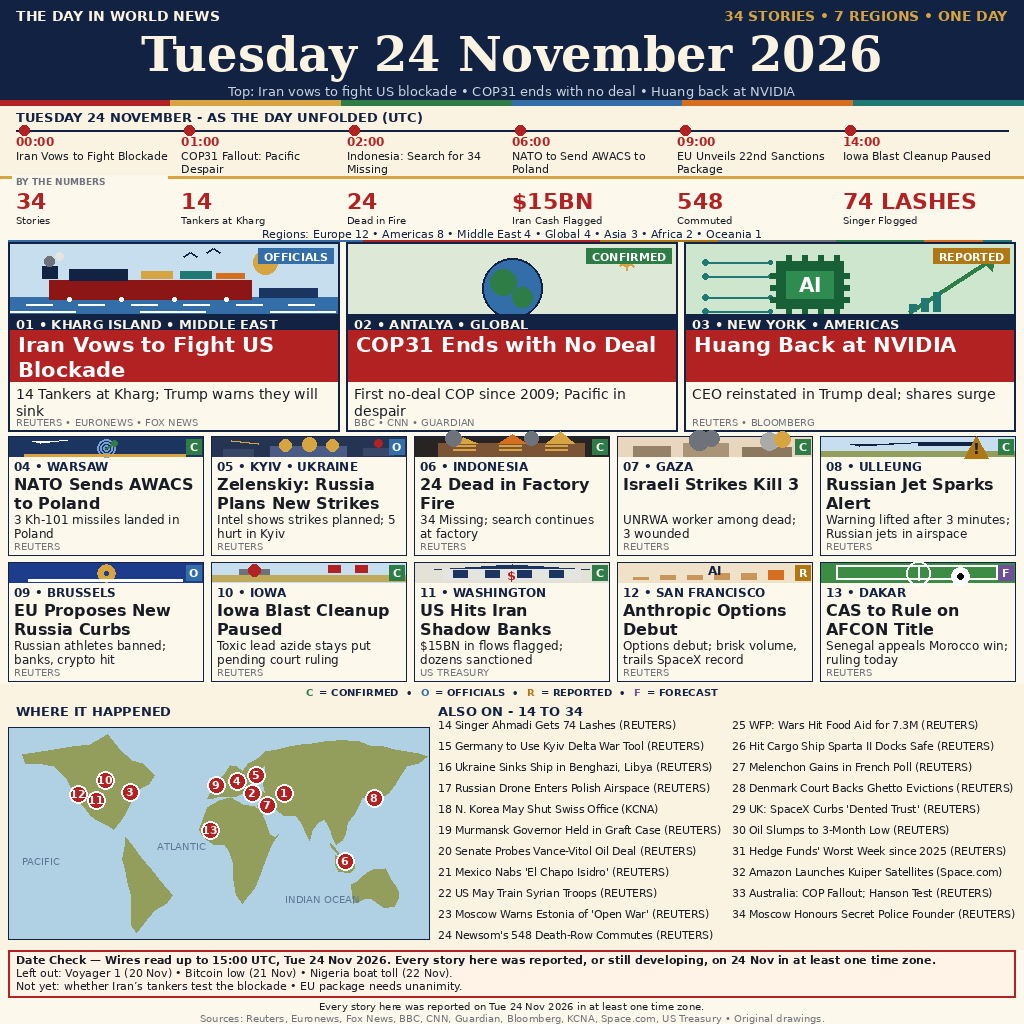
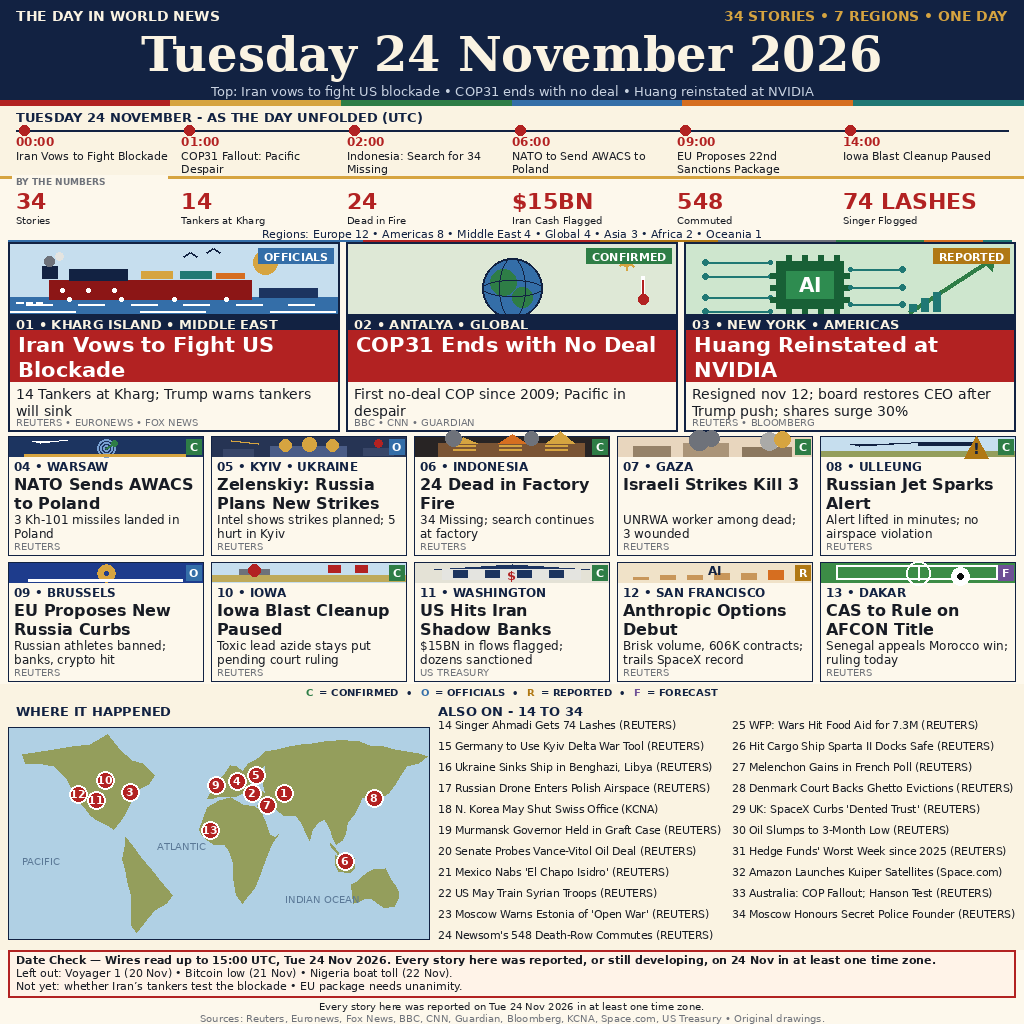
v3.4: blind R5 fixes - Huang reinstatement explained (resigned Nov 12, board restores after Trump push, +30%), panel 08 alert corrected (no airspace violation, no 3-min claim), panel 12 606K contracts vs SpaceX record, EU PROPOSES aligned in timeline, hero 01 pronoun fixed, hero art depth (tanker po

diff --git a/draw.py b/draw.py
@@ -288,6 +288,12 @@ def scene_tanker(cv, x, y, w, h):
     cv.fill_rect(x + int(w * 0.40), y + int(h * 0.32), int(w * 0.10), int(h * 0.10), GOLD)
     cv.fill_rect(x + int(w * 0.52), y + int(h * 0.32), int(w * 0.10), int(h * 0.10), TEAL)
     cv.fill_rect(x + int(w * 0.63), y + int(h * 0.34), int(w * 0.09), int(h * 0.08), ORANGE)
+    # portholes on the hull + wake astern (v3.4: flat hull detail)
+    for px in (0.16, 0.24, 0.32):
+        cv.circle(x + int(w * px), y + int(h * 0.54), 2, WHITE)
+    for wx in (0.02, 0.05, 0.08):
+        cv.line(x + int(w * wx), y + int(h * 0.68),
+                x + int(w * (wx + 0.02)), y + int(h * 0.68), WHITE, 2)
     # second ship far
     cv.fill_rect(x + int(w * 0.76), y + int(h * 0.52), int(w * 0.18), int(h * 0.12), NAVY2)
     # waves: two rows + foam at the waterline (v3.3). The kicker
@@ -310,6 +316,16 @@ def scene_climate(cv, x, y, w, h):
     cv.circle(cx - int(r * 0.3), cy - int(r * 0.2), int(r * 0.45), GREEN)
     cv.circle(cx + int(r * 0.35), cy + int(r * 0.3), int(r * 0.35), GREEN)
     cv.circle(cx, cy, r, NAVY, fill=False)
+    # meridians + equator (v3.4: bare globe read as a flat ball)
+    cv.d.ellipse([cx - int(r * 0.45), cy - r, cx + int(r * 0.45), cy + r],
+                 outline=NAVY, width=1)
+    cv.d.ellipse([cx - r, cy - int(r * 0.28), cx + r, cy + int(r * 0.28)],
+                 outline=NAVY, width=1)
+    # thermometer, right of the globe (v3.4: heat cue for the no-deal COP)
+    tx = x + int(w * 0.90)
+    cv.fill_rect(tx - 2, y + int(h * 0.38), 4, int(h * 0.24), WHITE)
+    cv.fill_rect(tx - 1, y + int(h * 0.42), 2, int(h * 0.20), RED)
+    cv.circle(tx, y + int(h * 0.64), 5, RED)
     # sun with rays (v3.2: smaller, fits the h=20 art strip)
     sx, sy = x + int(w * 0.85), y + int(h * 0.18)
     cv.circle(sx, sy, 7, GOLD)
@@ -348,6 +364,12 @@ def scene_nvidia(cv, x, y, w, h):
         cv.fill_rect(cx - 40, py, 6, 6, (24, 96, 54))
         cv.fill_rect(cx + 34, py, 6, 6, (24, 96, 54))
     draw_text_c(cv, cx, cy, "AI", F(SANS_B, 20), WHITE)
+    # circuit traces from the chip to the arrow (v3.4: right side was empty)
+    for ty in (0.30, 0.50, 0.70):
+        yy = y + int(h * ty)
+        cv.line(cx + 40, yy, x + int(w * 0.66), yy, TEAL, 2)
+        cv.circle(cx + 40, yy, 2, TEAL)
+        cv.circle(x + int(w * 0.66), yy, 3, TEAL)
     # rising arrow, right side
     ax0, ay0 = x + int(w * 0.68), y + int(h * 0.80)
     ax1, ay1 = x + int(w * 0.94), y + int(h * 0.16)
@@ -604,15 +626,15 @@ VERACITY = {'C': ('CONFIRMED', GREEN), 'O': ('OFFICIALS', BLUE),
 HEROES = [
     dict(num='01', city='KHARG ISLAND', region='MIDDLE EAST', scene='tanker',
          headline='IRAN VOWS TO FIGHT US BLOCKADE',
-         deck='14 TANKERS AT KHARG; TRUMP WARNS THEY WILL SINK',
+         deck='14 TANKERS AT KHARG; TRUMP WARNS TANKERS WILL SINK',
          source='REUTERS • EURONEWS • FOX NEWS', tag='O'),
     dict(num='02', city='ANTALYA', region='GLOBAL', scene='climate',
          headline='COP31 ENDS WITH NO DEAL',
          deck='FIRST NO-DEAL COP SINCE 2009; PACIFIC IN DESPAIR',
          source='BBC • CNN • GUARDIAN', tag='C'),
     dict(num='03', city='NEW YORK', region='AMERICAS', scene='nvidia',
-         headline='HUANG BACK AT NVIDIA',
-         deck='CEO REINSTATED IN TRUMP DEAL; SHARES SURGE',
+         headline='HUANG REINSTATED AT NVIDIA',
+         deck='RESIGNED NOV 12; BOARD RESTORES CEO AFTER TRUMP PUSH; SHARES SURGE 30%',
          source='REUTERS • BLOOMBERG', tag='R'),
 ]
 
@@ -631,7 +653,7 @@ SMALL = [
          deck='UNRWA WORKER AMONG DEAD; 3 WOUNDED', source='REUTERS', tag='C'),
     dict(num='08', city='ULLEUNG', scene='plane',
          headline='RUSSIAN JET SPARKS ALERT',
-         deck='WARNING LIFTED AFTER 3 MINUTES; RUSSIAN JETS IN AIRSPACE', source='REUTERS', tag='C'),
+         deck='ALERT LIFTED IN MINUTES; NO AIRSPACE VIOLATION', source='REUTERS', tag='C'),
     dict(num='09', city='BRUSSELS', scene='eu',
          headline='EU PROPOSES NEW RUSSIA CURBS',
          deck='RUSSIAN ATHLETES BANNED; BANKS, CRYPTO HIT', source='REUTERS', tag='O'),
@@ -643,7 +665,7 @@ SMALL = [
          deck='$15BN IN FLOWS FLAGGED; DOZENS SANCTIONED', source='US TREASURY', tag='C'),
     dict(num='12', city='SAN FRANCISCO', scene='anthropic',
          headline='ANTHROPIC OPTIONS DEBUT',
-         deck='OPTIONS DEBUT; BRISK VOLUME, TRAILS SPACEX RECORD', source='REUTERS', tag='R'),
+         deck='BRISK VOLUME, 606K CONTRACTS; TRAILS SPACEX RECORD', source='REUTERS', tag='R'),
     dict(num='13', city='DAKAR', scene='football',
          headline='CAS TO RULE ON AFCON TITLE',
          deck='SENEGAL APPEALS MOROCCO WIN; RULING TODAY', source='REUTERS', tag='F'),
@@ -678,7 +700,7 @@ TIMELINE = [
     ("01:00", "COP31 FALLOUT: PACIFIC DESPAIR"),
     ("02:00", "INDONESIA: SEARCH FOR 34 MISSING"),
     ("06:00", "NATO TO SEND AWACS TO POLAND"),
-    ("09:00", "EU UNVEILS 22ND SANCTIONS PACKAGE"),
+    ("09:00", "EU PROPOSES 22ND SANCTIONS PACKAGE"),
     ("14:00", "IOWA BLAST CLEANUP PAUSED"),
 ]
 
